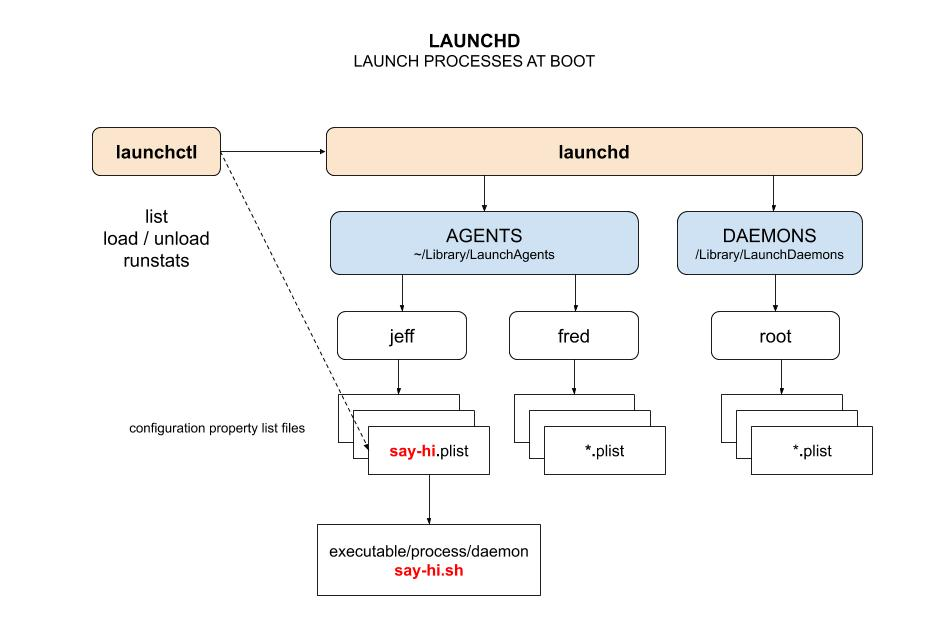
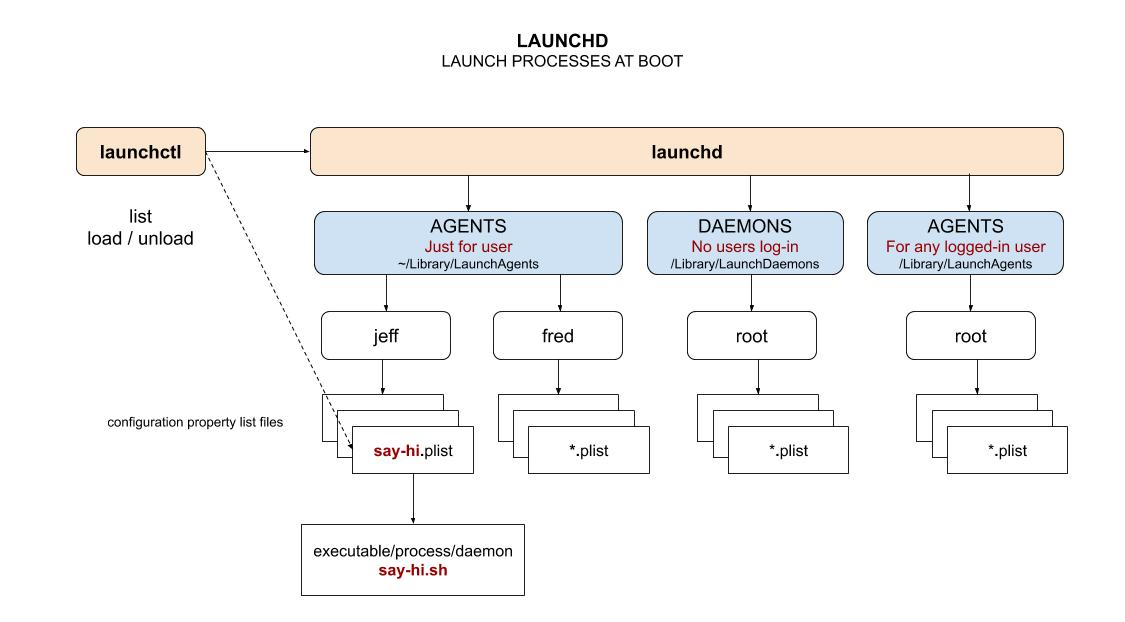
updated redis and launchd

diff --git a/software/development/software-architectures/database/redis-cheat-sheet/README.md b/software/development/software-architectures/database/redis-cheat-sheet/README.md
@@ -9,12 +9,23 @@ tl;dr,
 # VERSIONS
 redis-server --version
 redis-cli --version
-# START/STOP - INIT AT BOOT
+# MANUAL START
+redis-server /etc/redis/6379.conf
+# CHECK IF ALIVE
+redis-cli ping
+ps aux | grep -i redis
+# SHUTDOWN saves the data file /var/redis/6379/jeff-redis.rdb
+redis-cli shutdown
+# CHECK LOG
+tail /var/log/redis_6379.log
+# LINUX BOOT - USING INIT
 sudo /etc/init.d/redis_6379 start
 sudo /etc/init.d/redis_6379 stop
 ps aux | grep -i redis
-# REDIS_CLI
-redis-cli ping
+# MACOS BOOT - USING LAUNCHD
+launchctl load ~/Library/LaunchAgents/local.redis.redis-server.plist
+launchctl unload ~/Library/LaunchAgents/local.redis.redis-server.plist
+launchctl list | grep redis
 # SET/GET
 redis-cli
 set jeff "whats up"
@@ -180,6 +191,28 @@ After 900 sec (15 min) if at least 1 key changed
 After 300 sec (5 min) if at least 10 keys changed
 After 60 sec if at least 10000 keys changed
 
+# TEST YOU CAN RUN IT
+
+```bash
+redis-server /etc/redis/6379.conf
+```
+
+Check if the redis-server server is running,
+
+```bash
+ps aux | grep -i redis
+redis-cli ping
+redis-cli shutdown
+```
+
+Shutdown saves the data file.
+
+Check log if you have issues,
+
+```bash
+tail /var/log/redis_6379.log
+```
+
 ## START ON BOOT
 
 Lets start the redis database server on boot.
@@ -233,16 +266,65 @@ Start redis-server using `launchd`.
 For more information on launchd refer to my cheat sheet
 [here](https://github.com/JeffDeCola/my-cheat-sheets/tree/master/software/development/operating-systems/macos/launchd-cheat-sheet)
 
-???
+Create a configuration property list file for your daemon (redis).
+You can call it what you like.
 
+```bash
+nano ~/Library/LaunchAgents/local.redis.redis-server.plist
+```
 
-## CHECK IF RUNNING
+with,
+
+```json
+<?xml version="1.0" encoding="UTF-8"?>
+<!DOCTYPE plist PUBLIC "-//Apple//DTD PLIST 1.0//EN" "http://www.apple.com/DTDs/PropertyList-1.0.dtd">
+<plist version="1.0">
+<dict>
+    <key>Label</key>
+    <string>local.redis.redis-server</string>
+	<key>Program</key>
+    <string>/usr/local/lib/redis-5.0.5/src/redis-server</string>
+	<key>ProgramArguments</key>
+	<array>
+        <string>/etc/redis/6379.conf</string>
+	</array>
+    <key>KeepAlive</key>
+    <true/>
+	<key>RunAtLoad</key>
+	<true/>
+	<key>StandardErrorPath</key>
+	<string>/var/log/redis_6379.log</string>
+	<key>StandardOutPath</key>
+	<string>/var/log/redis_6379.log</string>
+</dict>
+</plist>
+```
+
+Lets load it,
+
+```bash
+launchctl load ~/Library/LaunchAgents/local.redis.redis-server.plist
+```
+
+Check if launchd launched it (does not mean redis is working),
+
+```bash
+launchctl list | grep redis
+```
+
+### CHECK IF RUNNING
 
 Check if the redis-server server is running,
 
 ```bash
 ps aux | grep -i redis
 redis-cli ping
+```
+
+Check log if issues,
+
+```bash
+tail /var/log/redis_6379.log
 ```
 
 ## REDIS-CLI COMMANDS

diff --git a/software/development/operating-systems/macos/launchd-cheat-sheet/README.md b/software/development/operating-systems/macos/launchd-cheat-sheet/README.md
@@ -22,8 +22,11 @@ View my entire list of cheat sheets on
 
 `launchd` launches at boot, two types of processes,
 
-* Agents - “~/Library/LaunchAgents” runs on behalf of the logged-in user
-* Daemons - “/Library/LaunchDaemons” runs on behalf of the root users
+* User
+  * Agents - “~/Library/LaunchAgents” runs on behalf of the logged-in user
+* Root
+  * Daemons - “/Library/LaunchDaemons” runs when no users logged in
+  * Agents - “/Library/LaunchAgents” when any user logged in
 
 Here is an illustration,
 
@@ -107,12 +110,22 @@ with,
 <dict>
     <key>Label</key>
     <string>local.say-hi</string>
-    <key>ProgramArguments</key>
+    <key>Program</key>
     <array>
         <string>/Users/jeffdecola/say-hi.sh</string>
     </array>
+	<key>ProgramArguments</key>
+	<array>
+        <string></string>
+	</array>
     <key>KeepAlive</key>
     <true/>
+	<key>RunAtLoad</key>
+	<true/>
+	<key>StandardErrorPath</key>
+	<string>/Users/jeffdecola/say-hi.log</string>
+	<key>StandardOutPath</key>
+	<string>/Users/jeffdecola/say-hi.log</string>
 </dict>
 </plist>
 ```
